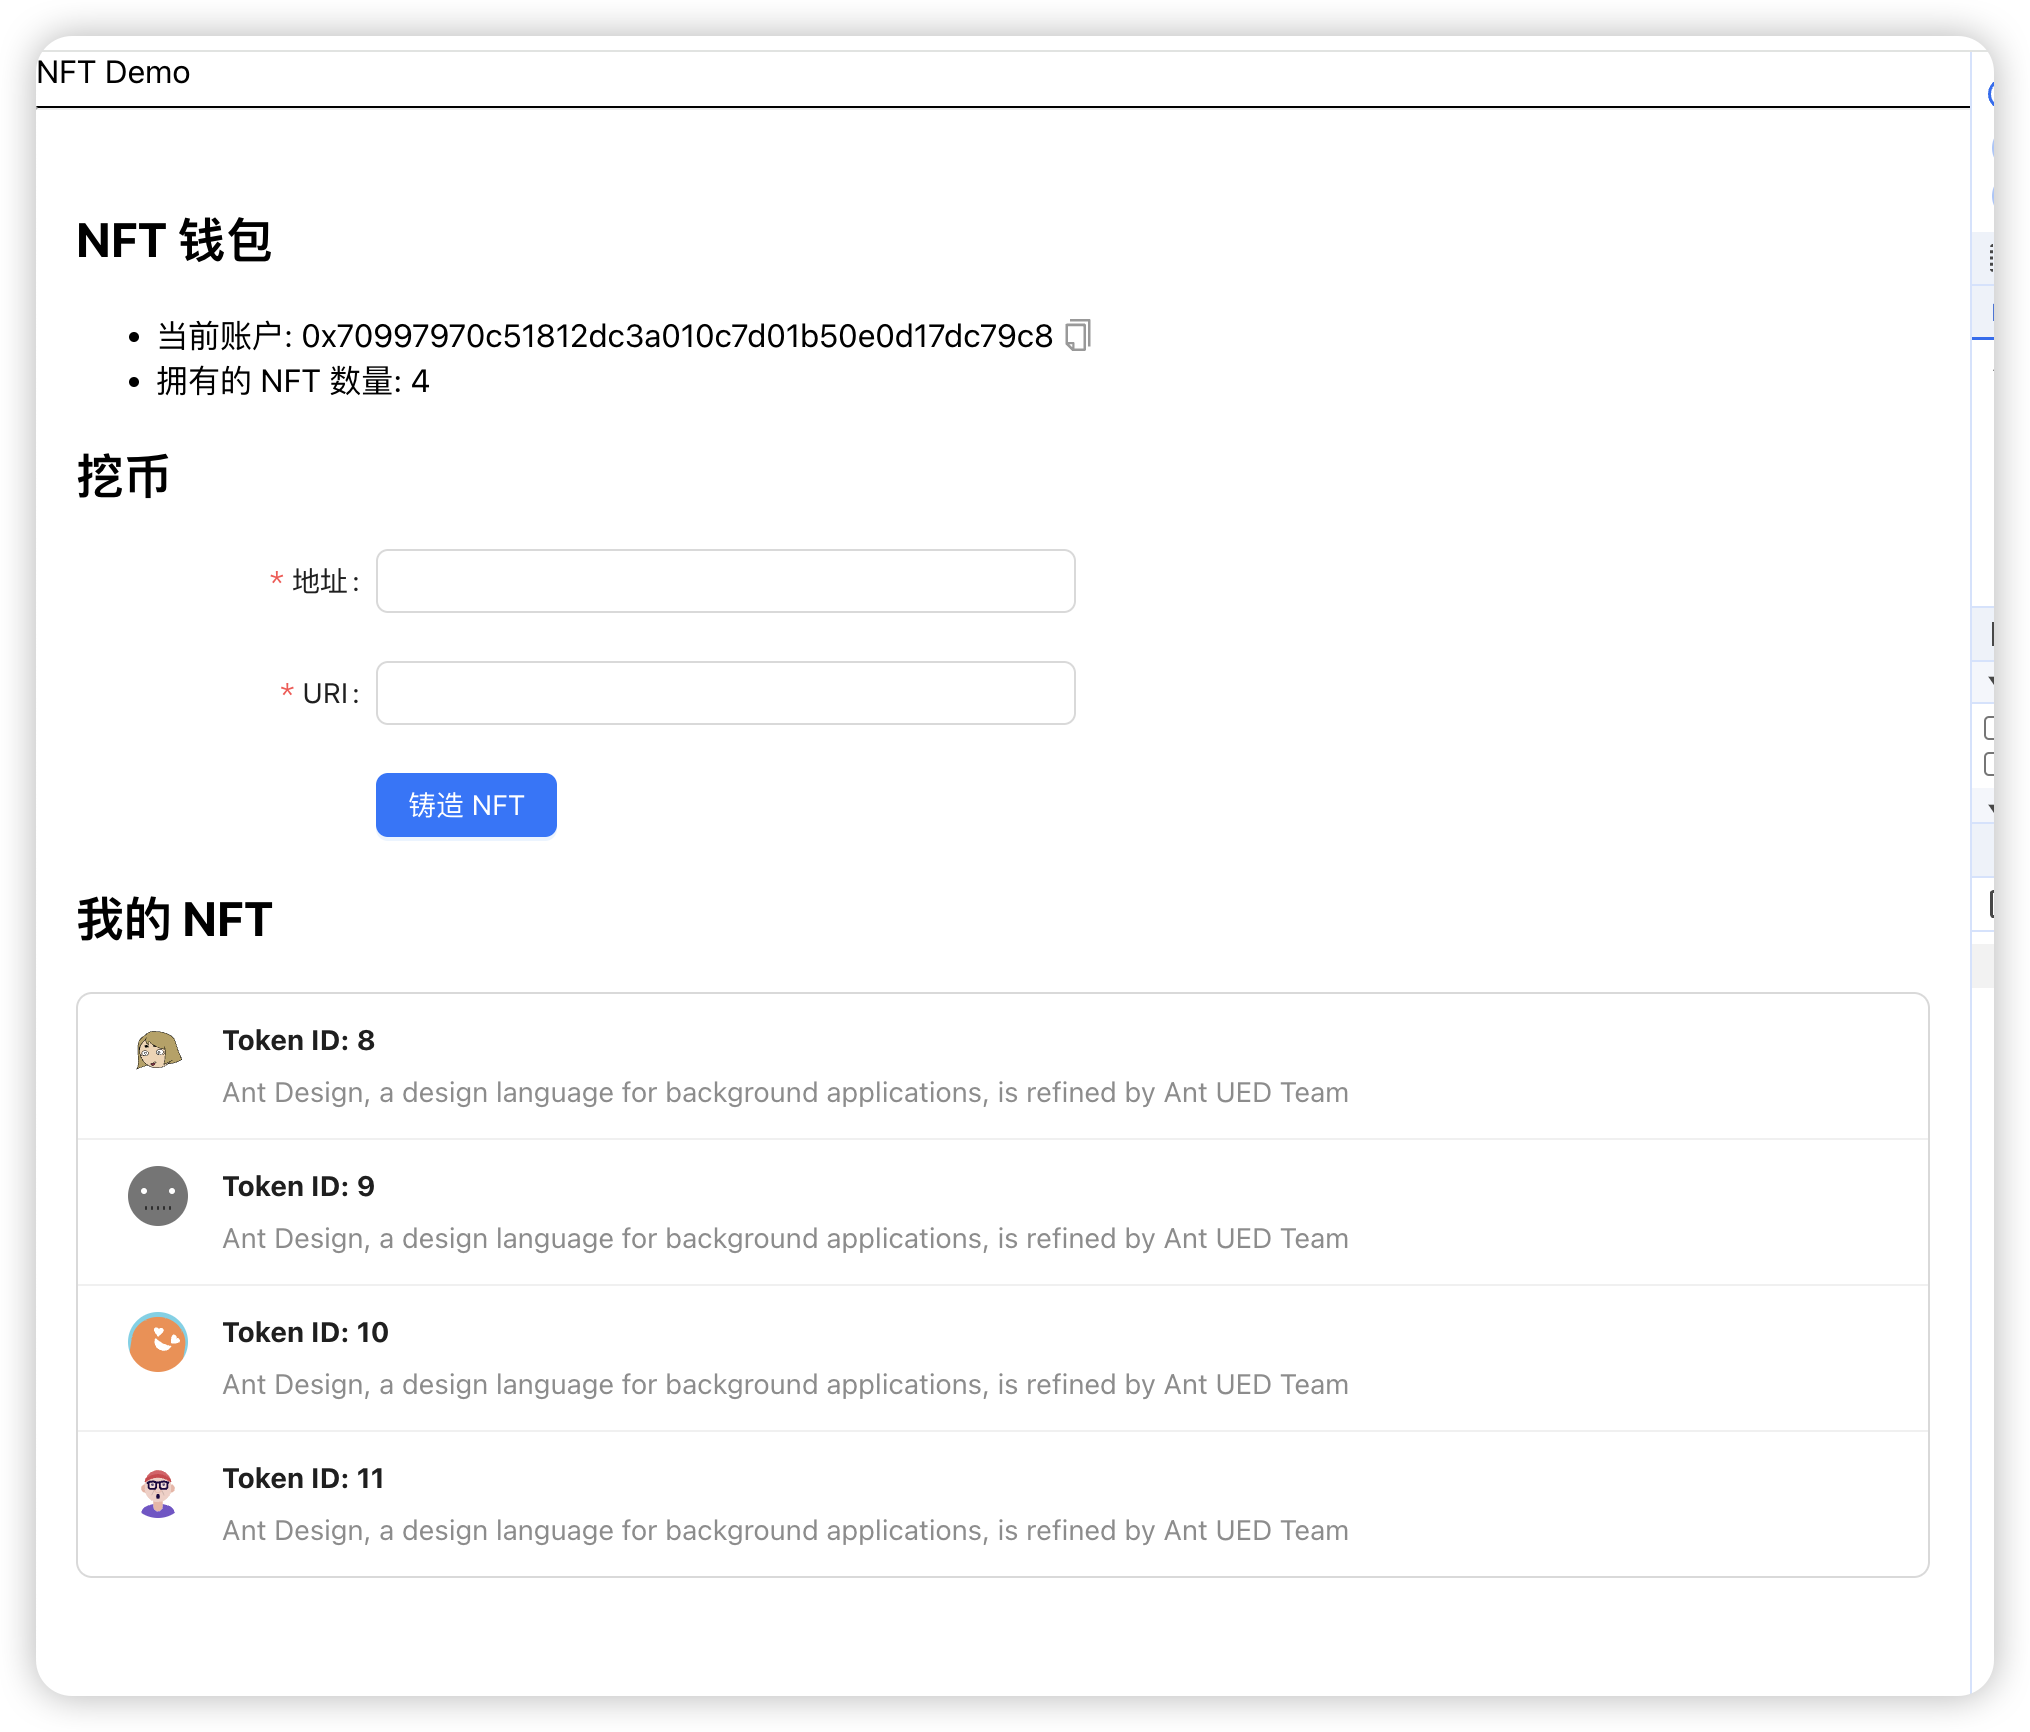
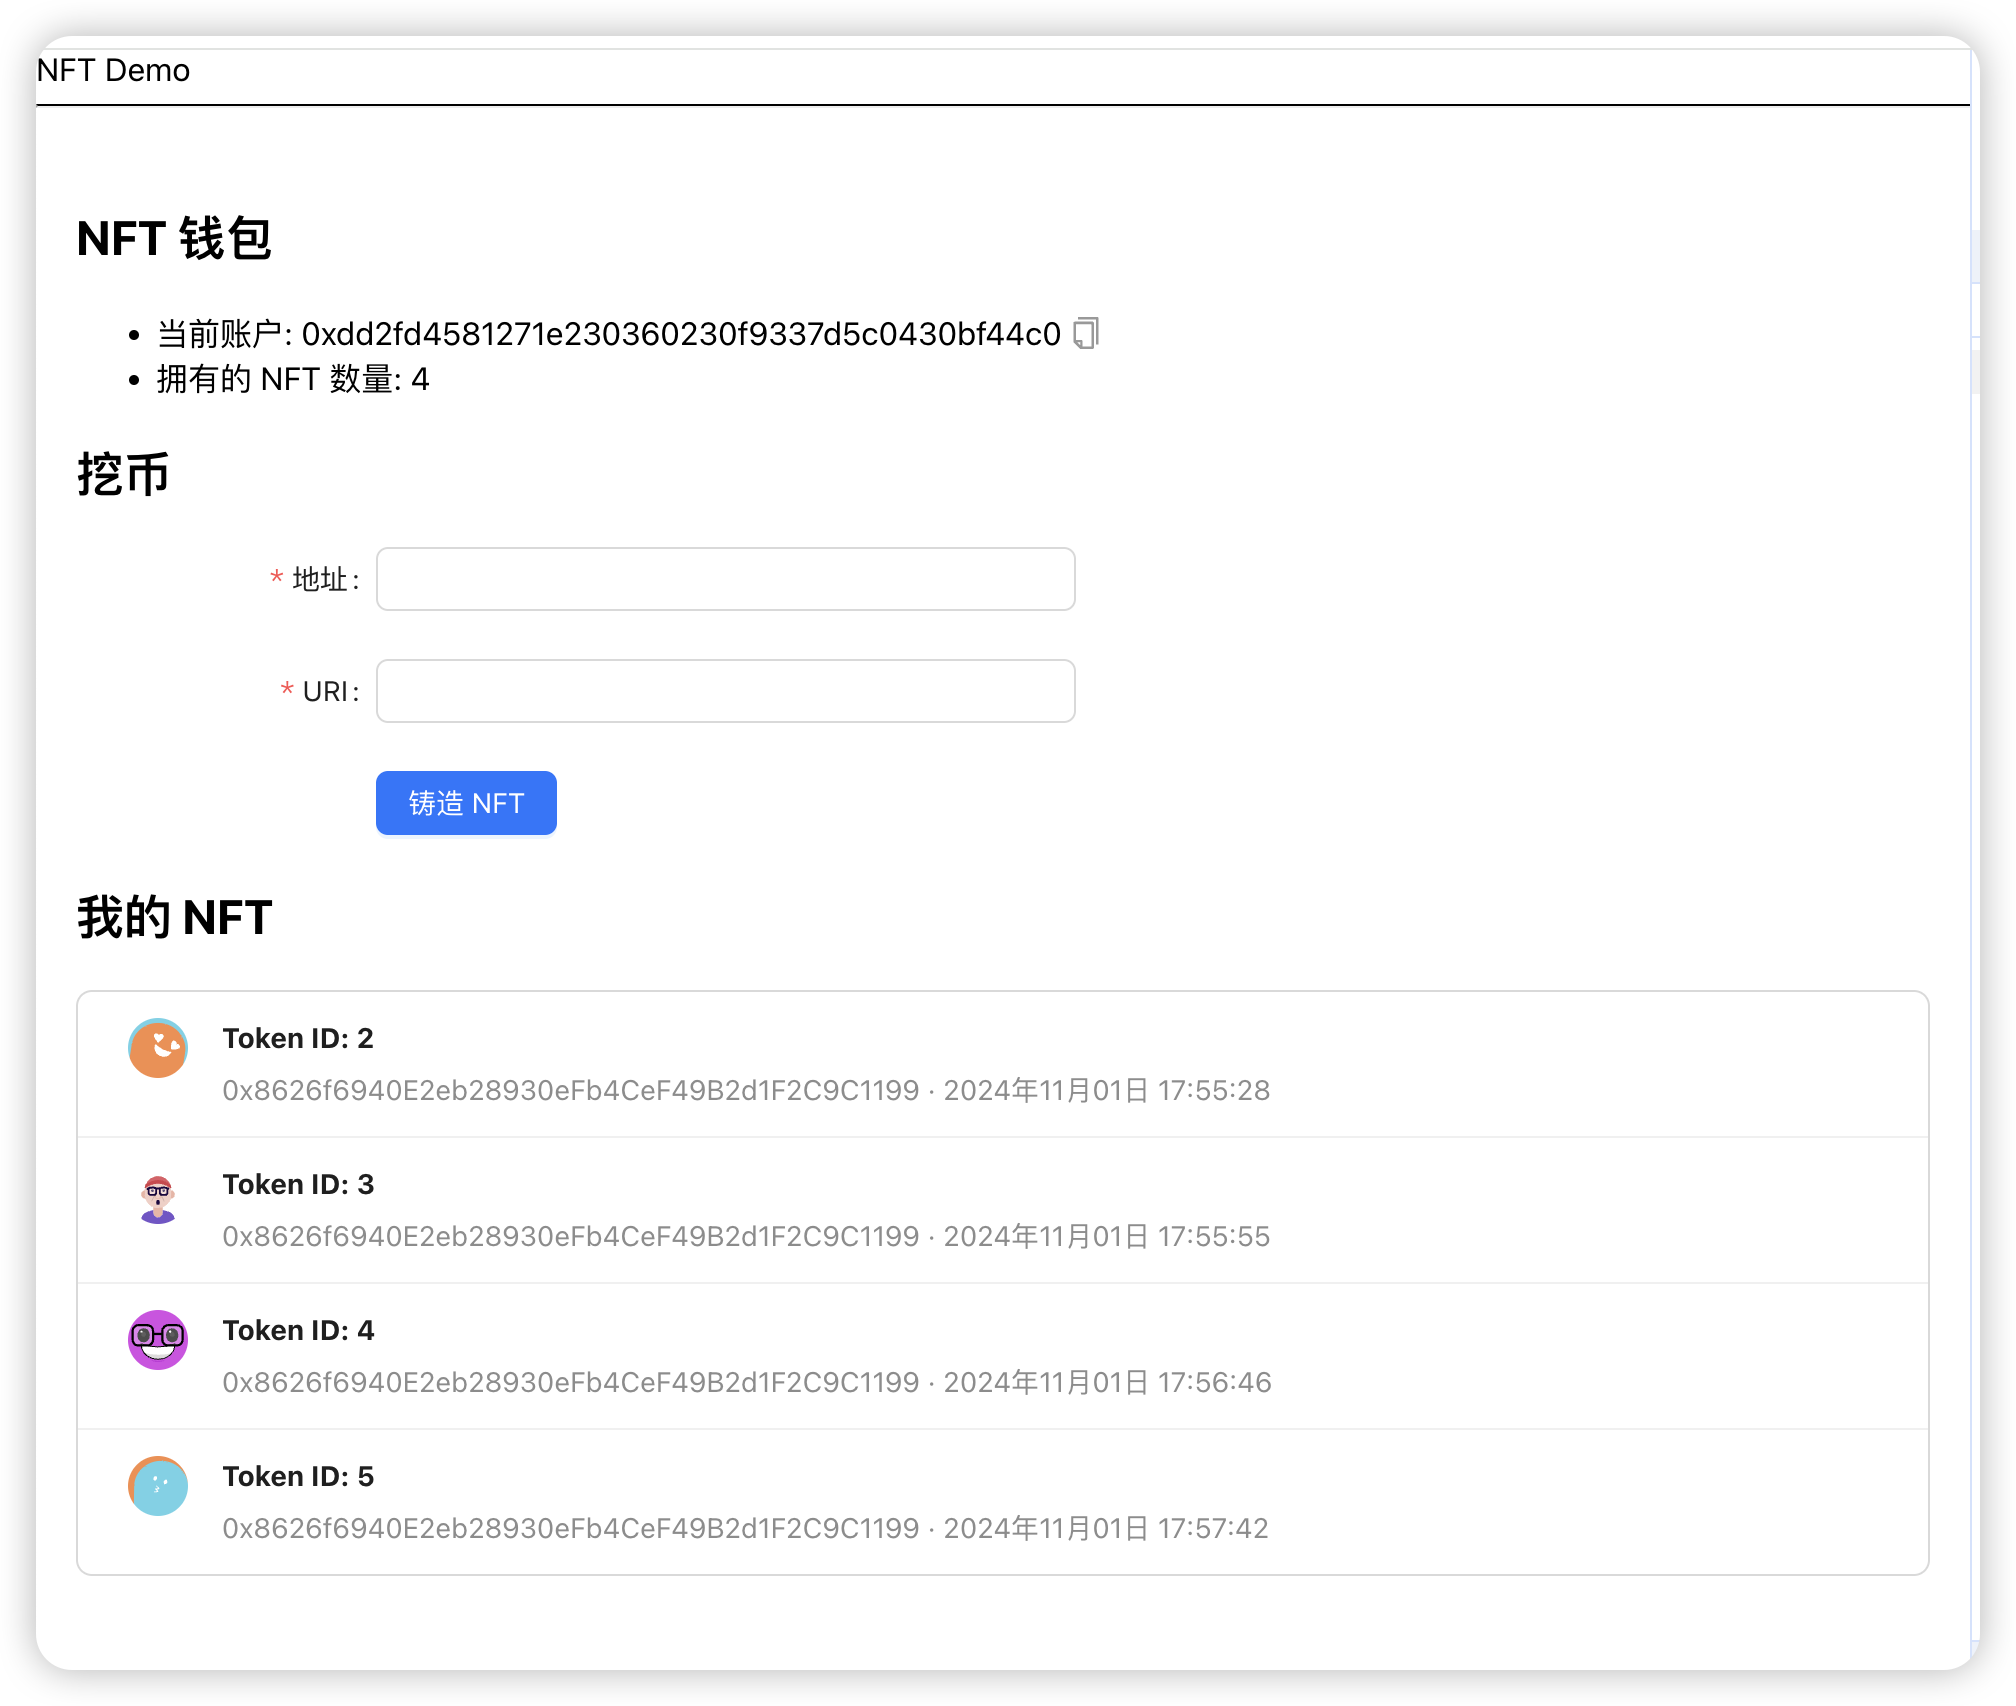
feat: smart contract add creator & creatTime

diff --git a/nft-wallet/src/components/Wallet.js b/nft-wallet/src/components/Wallet.js
@@ -12,6 +12,7 @@ import {
   Select,
   Space,
 } from "antd";
+import dayjs from "dayjs";
 import { CopyOutlined } from "@ant-design/icons";
 import { createAvatar } from "@dicebear/core";
 import { lorelei } from "@dicebear/collection";
@@ -101,9 +102,13 @@ const Wallet = () => {
     for (let i = 0; i < balance; i++) {
       const tokenId = await contractWithSigner.tokenOfOwnerByIndex(_account, i);
       const tokenURI = await contractWithSigner.tokenURI(tokenId);
+      const creator = await contractWithSigner.getCreator(tokenId);
+      const creationTime = await contractWithSigner.getCreationTime(tokenId);
       nfts.push({
         tokenId: tokenId.toString(),
         tokenURI: tokenURI.toString(),
+        creator: creator,
+        creationTime: creationTime,
       });
     }
     setNfts(nfts);
@@ -267,7 +272,19 @@ const Wallet = () => {
             <List.Item.Meta
               avatar={<Avatar src={item.tokenURI} />}
               title={<span>Token ID: {item.tokenId}</span>}
-              description="Ant Design, a design language for background applications, is refined by Ant UED Team"
+              description={
+                <span>
+                  <Tooltip title="创作者" placement="top">
+                    {item.creator}
+                  </Tooltip>
+                  &nbsp;·&nbsp;
+                  <Tooltip title="铸造时间" placement="top">
+                    {dayjs(Number(item.creationTime) * 1000).format(
+                      "YYYY年MM月DD日 HH:mm:ss"
+                    )}
+                  </Tooltip>
+                </span>
+              }
             />
           </List.Item>
         )}

diff --git a/test/DoggieKToken.js b/test/DoggieKToken.js
@@ -28,6 +28,7 @@ describe("DoggieKToken Contract", function () {
       expect(await token.balanceOf(owner.address)).to.equal(1);
       expect(await token.ownerOf(0)).to.equal(owner.address);
       expect(await token.tokenURI(0)).to.equal(uri);
+      expect(await token.getCreator(0)).to.equal(owner.address);
     });
   });
 });
